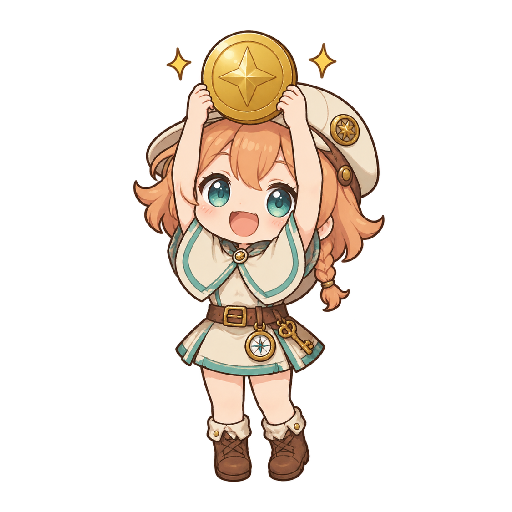
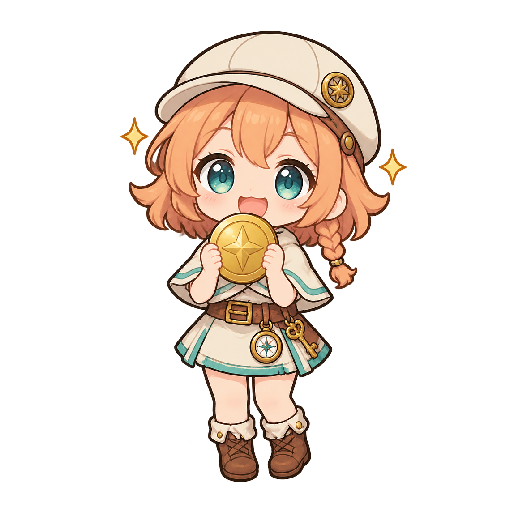
fix: 桌宠三处细节 —— 去掉地面阴影、气泡箭头对准脑袋(含屏幕夹取)、切姿势不再闪烁/缩放
- PetSprite: 删除 groundShadow;姿势帧改为 Repeater 全帧预载(切帧只改 opacity,
  不再换 source 触发重新解码);回弹改回等比缩放(去掉挤压拉伸)
- PetPanel: 气泡锚点中心落在桌宠脑袋上(框架箭头永远画在弹层中心),并用
  PetManager.clampTipCenterX 做屏幕夹取(框架无屏幕避让)
- 生图流水线:cheer 重出(金币到下巴,不让道具高过帽顶),并新增帧间包围盒漂移告警
- 兼容 prismqml 发布版:弹层没有公开 viewWidth/viewHeight,改为运行期探测后赋值

Changed region(s): [[0.2188, 0.0312, 0.8125, 0.9375]]

diff --git a/qml/pet/PetSprite.qml b/qml/pet/PetSprite.qml
@@ -36,13 +36,11 @@ Item {
     // 基础姿势(可被 sleepy 占据)与一次性姿势(wave/cheer/blink 临时插播)
     property string basePose: "idle"
     property string activePose: ""
-    // 交叉淡入用的双缓冲:当前显示的是哪一层
-    property int topLayer: 0
-    property string shownUrl: ""
     // 打瞌睡阈值与下一次眨眼的间隔
     readonly property int drowsyAfterMs: 90000
     property int blinkEvery: 3200 + Math.round(Math.random() * 2600)
 
+    readonly property var frameRoles: ["idle", "blink", "wave", "cheer", "sleepy", "alert"]
     readonly property bool hasFrames: !!(frames && frames.idle)
     readonly property string poseRole: {
         if (sprite.alert) return "alert"
@@ -56,6 +54,27 @@ Item {
         if (path === "" && table && table.idle) path = table.idle
         return path !== "" ? path : sprite.imagePath
     }
+    // 每一帧一个 Image,source 在创建时就全部设好,切换只改 opacity。
+    // 换 source 会触发重新解码,首帧空一拍,表现就是"切姿势时闪一下"。
+    readonly property var frameList: {
+        var table = sprite.frames || ({})
+        var list = []
+        var seen = ({})
+        var i, role
+        for (i = 0; i < sprite.frameRoles.length; ++i) {
+            role = sprite.frameRoles[i]
+            if (table[role]) {
+                list.push({ "role": role, "path": table[role] })
+                seen[role] = true
+            }
+        }
+        for (var key in table) {   // 约定发现的额外角色一并预载
+            if (!seen[key] && table[key]) list.push({ "role": key, "path": table[key] })
+        }
+        if (list.length === 0 && sprite.imagePath !== "")
+            list.push({ "role": "idle", "path": sprite.imagePath })
+        return list
+    }
 
     implicitWidth: 120
     implicitHeight: 128
@@ -66,18 +85,6 @@ Item {
 
     function _hasFrame(role) {
         return !!(sprite.frames && sprite.frames[role])
-    }
-
-    function _applyFrame(path) {
-        var url = sprite._urlOf(path)
-        if (url === sprite.shownUrl) return
-        sprite.shownUrl = url
-        var next = sprite.topLayer === 0 ? poseB : poseA
-        var current = sprite.topLayer === 0 ? poseA : poseB
-        next.source = url
-        next.opacity = 1
-        current.opacity = 0
-        sprite.topLayer = 1 - sprite.topLayer
     }
 
     // 播放一次性姿势;没有对应帧就什么都不做(单图形象同样能正常互动)。
@@ -116,67 +123,36 @@ Item {
         sprite.playPose("cheer", 1200)
     }
 
-    onShownPathChanged: sprite._applyFrame(sprite.shownPath)
-    // 初始那次求值不会发 changed 信号,必须显式落一次,否则第一帧永远不显示。
-    Component.onCompleted: {
-        sprite.lastInteraction = Date.now()
-        sprite._applyFrame(sprite.shownPath)
-    }
+    // 交互/告警都重置"多久没动过"的计时,避免刚交互完就进入打瞌睡。
+    Component.onCompleted: sprite.lastInteraction = Date.now()
     onAlertChanged: sprite.lastInteraction = Date.now()
     onActivePoseChanged: {
         if (sprite.activePose === "") sprite.lastInteraction = Date.now()
     }
 
-    // 地面阴影(呼吸幅度与本体相反,增强"离地飘浮"的感觉)
-    Rectangle {
-        id: groundShadow
-        width: 72
-        height: 11
-        radius: 6
-        color: "#22171C3A"
-        anchors.horizontalCenter: parent.horizontalCenter
-        anchors.bottom: parent.bottom
-        anchors.bottomMargin: 1
-
-        SequentialAnimation on opacity {
-            loops: Animation.Infinite
-            NumberAnimation { to: 0.55; duration: 1800; easing.type: Easing.InOutSine }
-            NumberAnimation { to: 0.95; duration: 1800; easing.type: Easing.InOutSine }
-        }
-    }
-
-    ParallelAnimation {
+    // 点击/余额变动的回弹反馈:等比缩放(以脚底为原点),不做挤压拉伸 ——
+    // 非等比偶发太强会被当成"切换动画时闪了一下/缩了一下"。
+    SequentialAnimation {
         id: bounceAnim
-
-        // target/property 只能写在 NumberAnimation 上(SequentialAnimation 不是
-        // PropertyAnimation,没有这两个属性)。
-        SequentialAnimation {
-            NumberAnimation {
-                target: bodyTransform; property: "xScale"
-                to: 1.16; duration: 90; easing.type: Easing.OutQuad
-            }
-            NumberAnimation {
-                target: bodyTransform; property: "xScale"
-                to: 0.93; duration: 120; easing.type: Easing.InOutQuad
-            }
-            NumberAnimation {
-                target: bodyTransform; property: "xScale"
-                to: 1.0; duration: 150; easing.type: Easing.OutBack
-            }
+        NumberAnimation {
+            target: bodyTransform
+            property: "xScale"
+            to: 1.06; duration: 110; easing.type: Easing.OutQuad
         }
-        SequentialAnimation {
-            NumberAnimation {
-                target: bodyTransform; property: "yScale"
-                to: 0.86; duration: 90; easing.type: Easing.OutQuad
-            }
-            NumberAnimation {
-                target: bodyTransform; property: "yScale"
-                to: 1.11; duration: 120; easing.type: Easing.InOutQuad
-            }
-            NumberAnimation {
-                target: bodyTransform; property: "yScale"
-                to: 1.0; duration: 150; easing.type: Easing.OutBack
-            }
+        NumberAnimation {
+            target: bodyTransform
+            property: "yScale"
+            to: 1.06; duration: 110; easing.type: Easing.OutQuad
+        }
+        NumberAnimation {
+            target: bodyTransform
+            property: "xScale"
+            to: 1.0; duration: 170; easing.type: Easing.OutBack
+        }
+        NumberAnimation {
+            target: bodyTransform
+            property: "yScale"
+            to: 1.0; duration: 170; easing.type: Easing.OutBack
         }
     }
 
@@ -240,32 +216,31 @@ Item {
             NumberAnimation { from: -5; to: 2; duration: 1900; easing.type: Easing.InOutSine }
         }
 
-        // ------------------------------------------------ 立绘(双缓冲交叉淡入)
-        Image {
-            id: poseA
-            objectName: "petImageLayerA"
-            anchors.fill: parent
-            opacity: 0
-            fillMode: Image.PreserveAspectFit
-            smooth: true
-            mipmap: true
-            Behavior on opacity { NumberAnimation { duration: 100 } }
-        }
-        Image {
-            id: poseB
-            objectName: "petImageLayerB"
-            anchors.fill: parent
-            opacity: 0
-            fillMode: Image.PreserveAspectFit
-            smooth: true
-            mipmap: true
-            Behavior on opacity { NumberAnimation { duration: 100 } }
+        // ------------------------------------------------ 立绘(全帧预载 + 交叉淡入)
+        // 每一帧一个 Image:创建时就把 source 全部设好(Qt 对本地文件同步解码,
+        // 相当于预载),切姿势只改 opacity —— 换 source 会重新解码,首帧空一拍,
+        // 那正是"切动画时闪一下"的来源。qml/pet 的帧数是个位数,常驻纹理代价可忽略。
+        Repeater {
+            model: sprite.frameList
+
+            delegate: Image {
+                required property var modelData
+                objectName: "petFrame_" + modelData.role
+                anchors.fill: parent
+                source: sprite._urlOf(modelData.path)
+                fillMode: Image.PreserveAspectFit
+                smooth: true
+                mipmap: true
+                asynchronous: false
+                opacity: modelData.path === sprite.shownPath ? 1 : 0
+                Behavior on opacity { NumberAnimation { duration: 90 } }
+            }
         }
 
         // ------------------------------------------------ 内置矢量形象
         Item {
             anchors.fill: parent
-            visible: sprite.shownUrl === ""
+            visible: sprite.frameList.length === 0
 
             // 信标天线
             Rectangle {

diff --git a/qml/pet/PetPanel.qml b/qml/pet/PetPanel.qml
@@ -10,9 +10,8 @@
 //   配色走 Fluent.Enums 主题令牌,字号走 Fluent.Enums.typography。
 //
 // 三处保留自绘,理由写死在这里,不允许"顺手"换掉:
-//   1. 气泡尖角:ShadowedRectangle 画不出指向桌宠的三角,整块气泡仍属悬浮窗
-//      共用透明表面,框架的 TipPopup/TeachingTip 是独立原生弹窗 + 纯文本模型,
-//      没有悬停暂停/自动收起钩子,塞不进这套固定栅格。
+//   1. 气泡尖角:ShadowedRectangle 画不出指向桌宠的三角(气泡现已改用框架的
+//      Fluent.TeachingTip 原生弹层,尖角由框架画;锚点与屏幕夹取仍在这里)。
 //   2. 桌宠拖动层:拖动要按 bottomY 坐标系移动窗口,并在松手时
 //      NewApiPet.savePosition();Flutter 侧 WindowDragHandle 只发 dragStarted,
 //      没有拖动结束信号,换掉会丢"记住位置"行为。
@@ -43,6 +42,19 @@ Item {
     property var spriteGap
     property var spriteSize
     property var spriteRightMargin
+    // 立绘帧四周的留白比例(与 scripts/generate_pet_art.py 的 --margin 一致):
+    // 帽顶离桌宠框顶还有这么多,气泡锚点补上它才落在帽顶而不是脑袋上方。
+    readonly property real spriteHeadInset: spriteSize * 0.06
+    // 发布版弹层的真实尺寸:框架内部固定(无操作按钮时 220×90),没有公开参数可改。
+    // 气泡锚点的屏幕夹取必须按这个宽度算,否则夹了个假宽度。
+    readonly property int bubbleTipWidth: 220
+    // 发布版弹层只渲染 title/content 文本模型(不承载自定义内容),所以余额与今日
+    // 用量两行都塞进 content。
+    readonly property string bubbleSummaryText: {
+        if (!panel.ready) return ""
+        return panel.primaryBalanceCaption + " " + panel.primaryBalanceText
+               + "\n" + panel.todaySummary
+    }
 
     // 数据(全部来自 NewApiPet 的只读属性,窗口负责取值与降级)
     property var ready
@@ -521,10 +533,26 @@ Item {
                 easing.type: Easing.OutCubic
             }
         }
-        // 锚点贴着桌宠上方留一点间隙:气泡底边落在桌宠头顶,
-        // 与原自绘气泡"紧贴桌宠"的观感一致。
-        anchors.horizontalCenter: parent.horizontalCenter
-        y: petSprite.y - Fluent.Enums.spacing.l
+        // 框架契约(已在 prismqml 0.4.2.26 wheel 里复核):弹层按 target 的水平中心摆放,
+        // 箭头又永远画在弹层的水平中心,且没有屏幕避让 —— 所以"箭头对准脑袋"等价于
+        // "target 的中心落在脑袋上",而"弹层不出屏"必须自己夹。
+        // 原先锚点钉在窗口正中(桌宠中心 250 vs 窗口中心 162),箭头整整偏左 88px。
+        readonly property real headCenterX: petSprite.x + petSprite.width * 0.5
+        // 窗口/屏幕几何都在 Qt 侧取(单位一致),QML 里的 screen 对象没有
+        // availableGeometry,自己算会直接抛 TypeError。
+        readonly property real tipCenterX: {
+            // 夹取要用弹层的真实宽度:开发态是面板宽,发布版是框架固定的 220
+            var tipWidth = bubbleTip.tipSupportsCustomContent
+                    ? panel.panelWidth : panel.bubbleTipWidth
+            var desired = panel.x + headCenterX
+            if (managerReady)
+                return PetManager.clampTipCenterX(desired, tipWidth) - panel.x
+            return headCenterX
+        }
+        // 锚点贴桌宠上方留一点间隙:气泡箭头落在帽顶
+        // (立绘帧四周有 6% 留白,所以下移 spriteHeadInset 才不是指着脑袋上方)
+        x: tipCenterX - width * 0.5
+        y: petSprite.y + panel.spriteHeadInset - Fluent.Enums.spacing.xs
         width: panel.panelWidth
         // 锚点保留 1px 高度:零高度 Item 在弹层定位里会被当成零尺寸目标。
         // 它不参与悬浮窗高度计算(bubbleAreaHeight 为 0)。
@@ -536,17 +564,35 @@ Item {
             target: bubbleAnchor
             // 气泡在桌宠上方:anchor_bottom 把弹层摆在 target 上方
             anchorPosition: Fluent.Enums.teachingTip.anchor_bottom
-            viewWidth: panel.panelWidth
-            viewHeight: panel.bubbleTipHeight
+            // 弹层在两代框架上能力不同,这里做兼容分流:
+            //   开发态:有公开 viewWidth/viewHeight,并承载调用方自定义内容
+            //           → 走下面的三行富排版,正文留空;
+            //   发布版(requirements.txt 固定的 0.4.2.25):尺寸由框架内部固定
+            //           (无操作按钮时 220×90),只渲染 title/content,不承载自定义内容
+            //           → 把同样的信息塞进文本模型。
+            // 探测而不是直接赋值:发布版没有这两个属性,直接写会让 QML 加载就报错。
+            readonly property bool tipSupportsCustomContent: bubbleTip.viewWidth !== undefined
+            readonly property string textTitle: panel.ready
+                    ? panel.tokenName + " · " + panel.expiresText : panel.statusText
+            title: bubbleTip.tipSupportsCustomContent ? "" : bubbleTip.textTitle
+            content: bubbleTip.tipSupportsCustomContent ? "" : panel.bubbleSummaryText
             // 自动收起交给 PetWindow 的 hideTimer(它要支持悬停暂停),
             // 所以这里用 persistent,不让框架自己计时关掉。
             duration: Fluent.Enums.duration.persistent
             closable: false
             modal: false
 
+            Component.onCompleted: {
+                if (bubbleTip.tipSupportsCustomContent) {
+                    bubbleTip.viewWidth = panel.panelWidth
+                    bubbleTip.viewHeight = panel.bubbleTipHeight
+                }
+            }
+
             // 内容层:三行富排版 + 接回悬停暂停/点击展开的交互层。
             // 弹层窗口自带 padding,这里再给一层对称留白,避免贴边。
             Item {
+                objectName: "petBubbleRichContent"
                 width: panel.panelWidth - Fluent.Enums.spacing.xl * 2
                 implicitHeight: bubbleColumn.height
 
@@ -557,9 +603,7 @@ Item {
 
                     Fluent.Label {
                         width: parent.width
-                        text: panel.ready
-                              ? panel.tokenName + " · " + panel.expiresText
-                              : panel.statusText
+                        text: bubbleTip.textTitle
                         type: Fluent.Enums.label.type_caption
                         font.pixelSize: Fluent.Enums.typography.micro
                         customTextColor: panel.mutedTextColor

diff --git a/qml/pet/PetWindow.qml b/qml/pet/PetWindow.qml
@@ -56,10 +56,11 @@ Window {
     readonly property int spriteRightMargin: 14
     readonly property int detailContentHeight: 352
     // 气泡改成独立原生窗口(Fluent.TeachingTip)后不再占悬浮窗高度:
-    // bubbleAreaHeight 归零、bubbleTop 归零,气泡形态与 pet 形态同高,
-    // 气泡弹层自己的高度由 bubbleTipHeight 决定。
+    // bubbleAreaHeight 归零、bubbleTop 归零,气泡形态与 pet 形态同高。
+    // 弹层本体的尺寸由框架内部固定(发布版无操作按钮时 220×90),这里只是把该值
+    // 记在几何常量里便于对照;面板的锚点夹取用的是它自己的 bubbleTipWidth。
     readonly property int bubbleAreaHeight: 0
-    readonly property int bubbleTipHeight: 84
+    readonly property int bubbleTipHeight: 90
 
     readonly property int cardTop: panelPadding
     // 桌宠区:必须放下 下边距 + 桌宠 + 与上方内容之间的空档

diff --git a/scripts/generate_pet_art.py b/scripts/generate_pet_art.py
@@ -123,7 +123,10 @@ POSE_LOCK = (
 POSES: dict[str, str] = {
     "blink": "close both eyes in a soft gentle blink, keep the smile and the pose exactly the same",
     "wave": "raise one hand up beside her head in a friendly wave, tuck the golden coin under the other arm",
-    "cheer": "lift the golden coin overhead with both hands, big open-mouth happy smile, tiny sparkle marks",
+    "cheer": "hold the golden coin up in front of her chin with both hands and give a big "
+             "open-mouth happy cheer, two tiny sparkles beside her head at hat height; "
+             "keep the whole hat visible and put nothing above the top of her hat, "
+             "silhouette no taller than the standing pose",
     "sleepy": "eyes closed, head tilted slightly, calm sleepy smile, both arms hugging the coin, one small zzz bubble beside her head",
     "alert": "worried startled expression with wide eyes and a sweat drop, holding a tiny empty coin purse in both hands",
 }
@@ -669,6 +672,14 @@ def generate_poses(reference_path: Path, roles: list[str], model: str, size: str
     for item in results:
         print(f"[OK] {item['path']} bbox={item['bbox']} scale={item['scale']} "
               f"size={item['size']}")
+    # 帧间尺寸体检:包围盒里多出"头顶道具"的帧会被归一化缩小本体,
+    # 表现为切姿势时角色"缩一下"。这里直接报出来,别等肉眼发现。
+    anchor = next((item for item in results if item["role"] == "idle"), results[0])
+    for item in results:
+        drift = item["bbox"][1] / anchor["bbox"][1] - 1.0
+        if abs(drift) > 0.05:
+            print(f"[WARN] {item['role']} 包围盒高与 idle 差 {drift:+.1%},"
+                  f"本体尺寸会跟着变 —— 建议重出该姿势(别让道具高过帽顶)")
     print(f"[OK] 对照条: {out_dir / '_strip.png'}")
     expected = len(roles) + 1
     return 0 if len(results) == expected else 1

diff --git a/backend/pet_manager.py b/backend/pet_manager.py
@@ -82,6 +82,30 @@ class PetManager(QObject):
 
     # ------------------------------------------------------------------ 槽
 
+    @Slot(float, float, result=float)
+    def clampTipCenterX(self, desired_window_x: float, tip_width: float) -> float:
+        """把气泡弹层的水平中心夹进屏幕可用区,返回窗口坐标下的中心 x。
+
+        框架的 TipPopup 只按 target 中心摆放、且不做屏幕避让(见 prismqml 的
+        TipPositionHelper::calculatePosition),所以"箭头对准桌宠脑袋"和"弹层不出屏"
+        只能由调用方一起满足。窗口与屏幕几何都在 Qt 侧取,单位一致(设备无关像素)。
+        """
+        window = self._window
+        if window is None or tip_width <= 0:
+            return desired_window_x
+        screen = window.screen()
+        if screen is None:
+            return desired_window_x
+        area = screen.availableGeometry()
+        margin = 4.0
+        half = tip_width / 2.0
+        # 换算到窗口坐标:窗口左上角在屏幕坐标 window.x()/window.y()
+        low = area.left() + margin + half - window.x()
+        high = area.left() + area.width() - margin - half - window.x()
+        if low > high:
+            return desired_window_x
+        return max(low, min(high, desired_window_x))
+
     @Slot(bool)
     def setEnabled(self, enabled: bool) -> None:
         """主界面开关:持久化 auto_show 并显示/隐藏悬浮窗。"""
